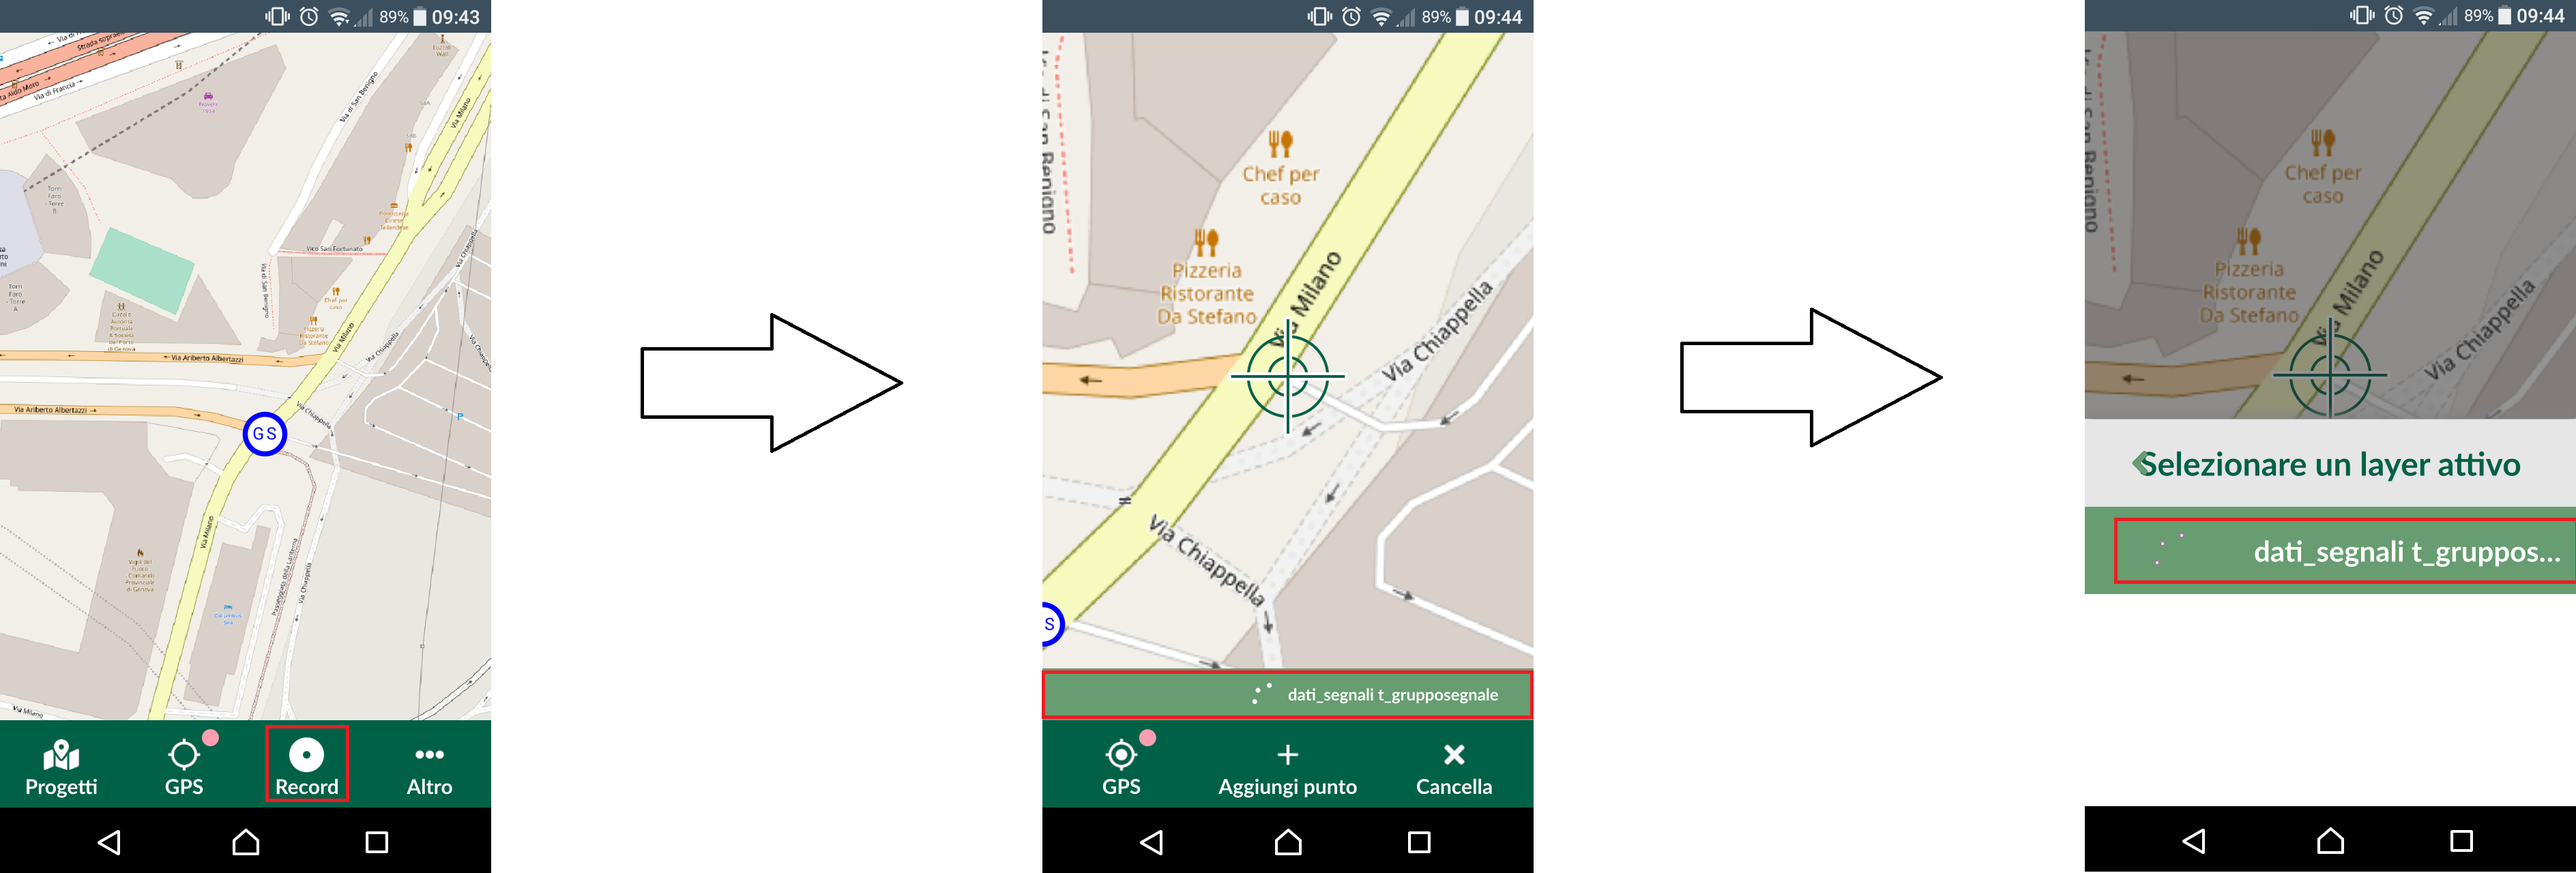
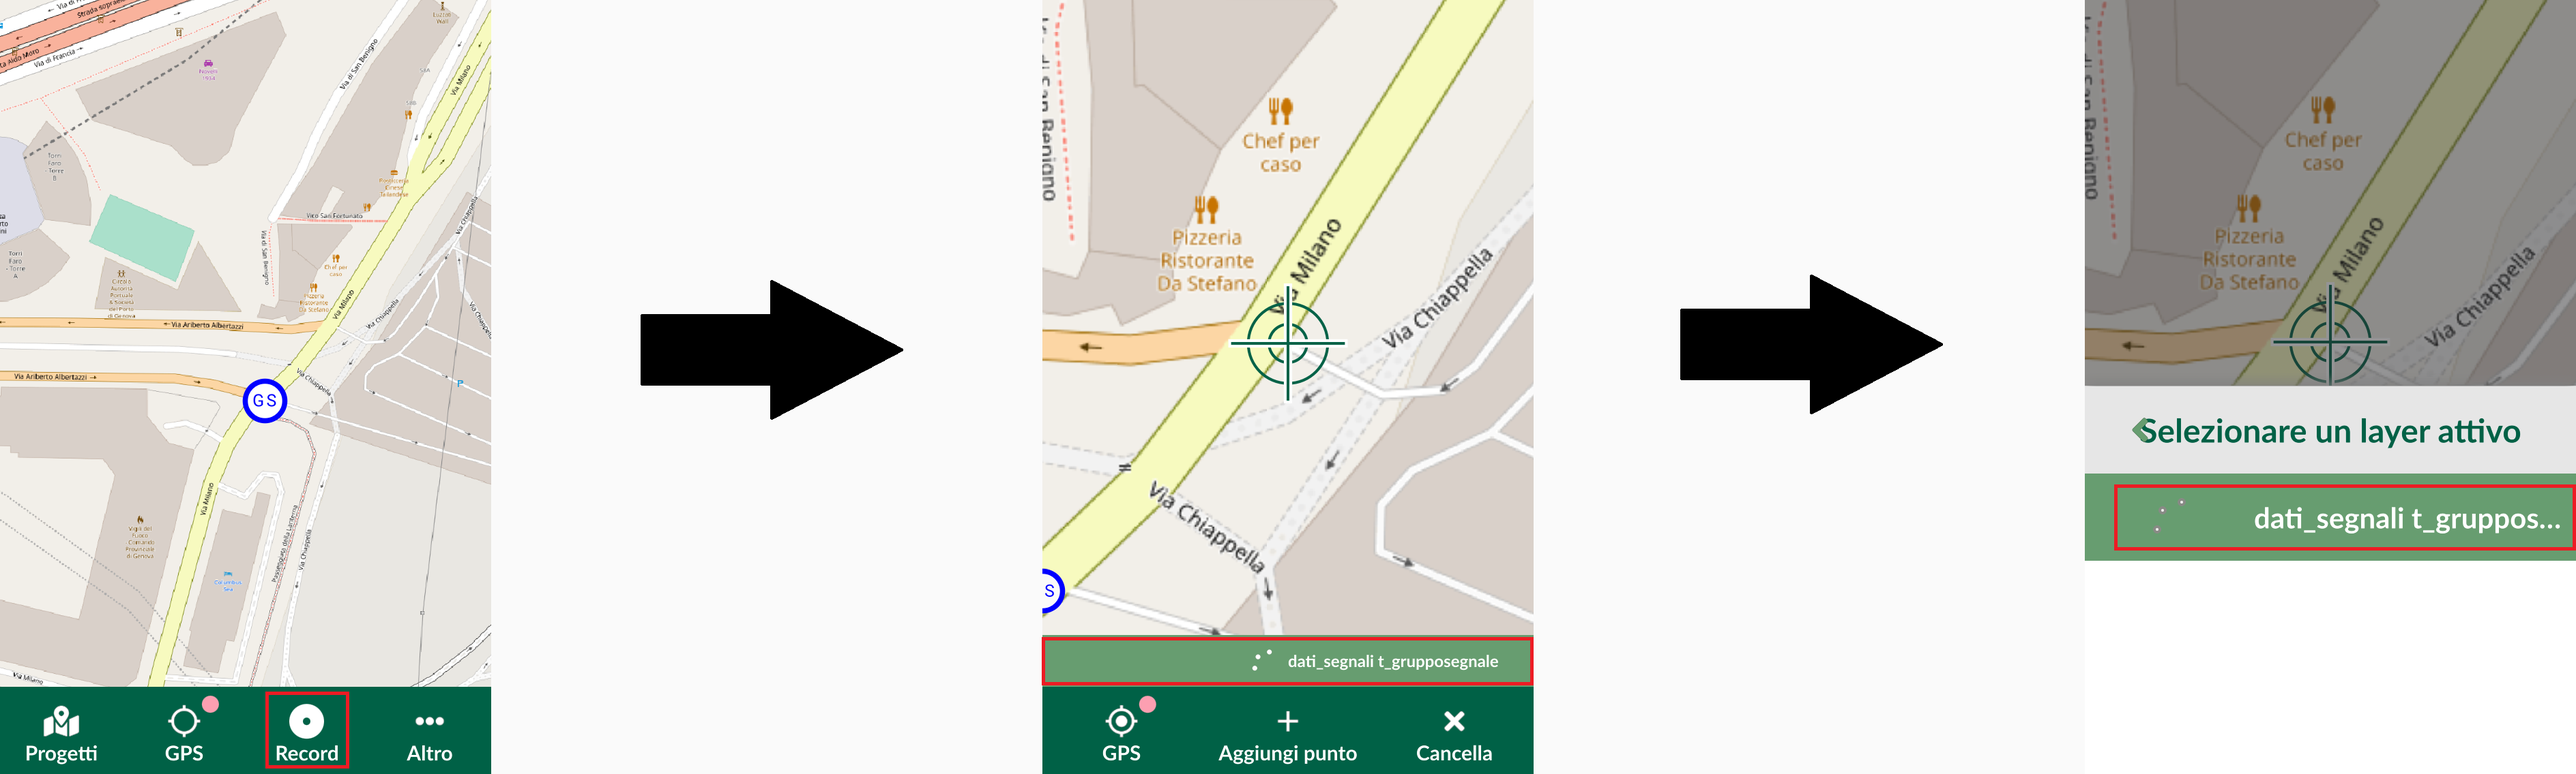
Documentation

diff --git a/input.rst b/input.rst
@@ -3,6 +3,7 @@ Input
 
 .. image:: img/logo_input.png
   :align: center
+  :scale: 150
 
 Un GIS mobile app sviluppato da `Lutra Consulting <https://www.lutraconsulting.co.uk/>`__.
 
@@ -61,6 +62,9 @@ Funzionalità
 * Posizionamento di un punto con il GPS
 * Tracciare linee o poligoni monitorando la posizione GPS
 
+.. hint:: Selezionare un layer attivo si fatto differamente che su QGIS o QField
+
+.. image:: img/input_get_active_layer.png
 
 
 Vantaggi e svantaggi

diff --git a/roam.rst b/roam.rst
@@ -3,6 +3,7 @@ IntraMap
 
 .. image:: img/logo_roam.png
   :align: center
+  :scale: 150
 
 
 IntraMaps Roam è un colletore di dati, sviluppato su Windows. Oggigiorno, non esiste una versione stabile dell'applicazione, disponibile su Windows e Linux.
